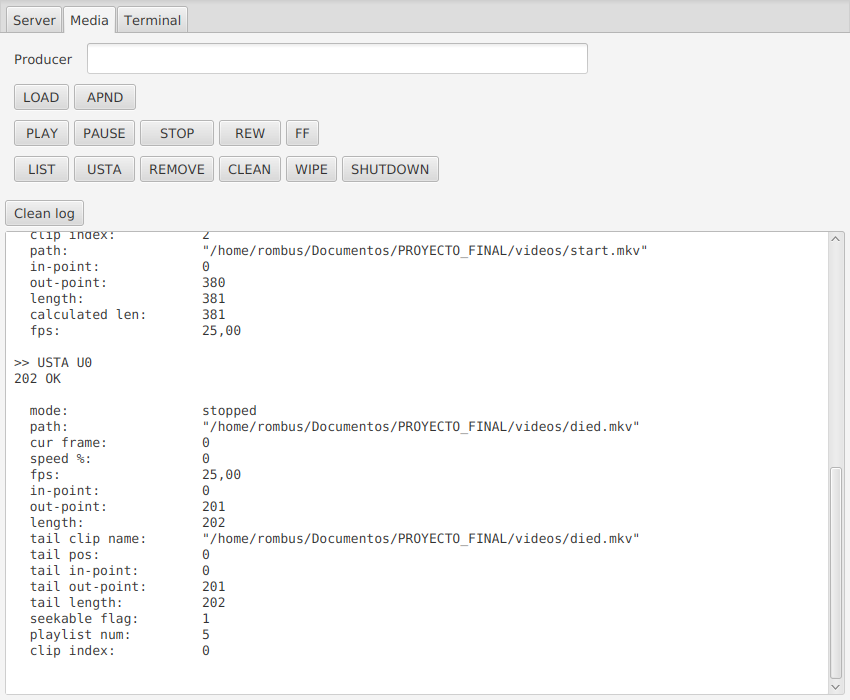
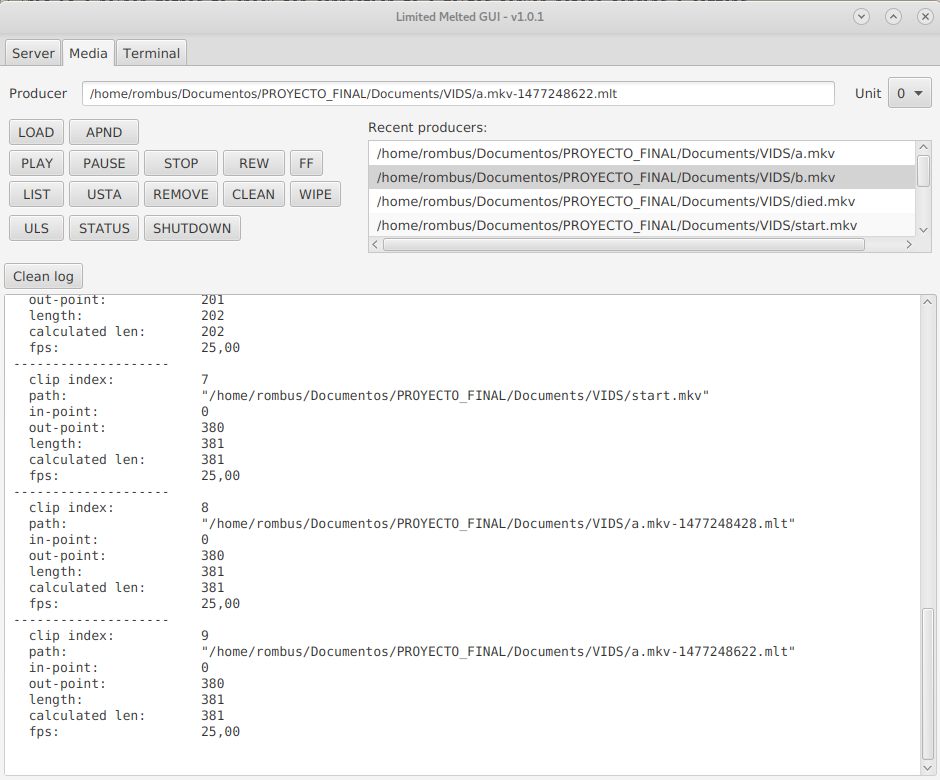
Added recent producers and commands list

diff --git a/src/com/rombus/evilbones/lmg/Main.java b/src/com/rombus/evilbones/lmg/Main.java
@@ -10,6 +10,7 @@ import javafx.application.Platform;
 import javafx.beans.value.ChangeListener;
 import javafx.beans.value.ObservableValue;
 import javafx.collections.FXCollections;
+import javafx.collections.ObservableList;
 import javafx.event.ActionEvent;
 import javafx.event.EventHandler;
 import javafx.fxml.FXML;
@@ -18,6 +19,7 @@ import javafx.fxml.Initializable;
 import javafx.scene.Scene;
 import javafx.scene.control.Button;
 import javafx.scene.control.ChoiceBox;
+import javafx.scene.control.ListView;
 import javafx.scene.control.TabPane;
 import javafx.scene.control.TextArea;
 import javafx.scene.control.TextField;
@@ -26,6 +28,7 @@ import javafx.scene.control.Tooltip;
 import javafx.scene.image.Image;
 import javafx.scene.input.DragEvent;
 import javafx.scene.input.Dragboard;
+import javafx.scene.input.MouseEvent;
 import javafx.scene.input.TransferMode;
 import javafx.scene.layout.VBox;
 import javafx.stage.Stage;
@@ -94,12 +97,18 @@ public class Main extends Application implements Initializable {
     private Button statusBtn;
     @FXML
     private Button ulsBtn;
+    @FXML
+    private ListView<String> recentProducers;
+    @FXML
+    private ListView<String> recentCommands;
 
-    private static final String VERSION = "v1.0.0";
+    private static final String VERSION = "v1.0.1";
     private String unit = "U0"; // Default unit
     private TelnetSession session;
     private I_SessionNotifier notifier;
     private Tooltip cleanBtnTooltip, removeBtnTooltip, wipeBtnTooltip;
+    private final ObservableList<String> producersList = FXCollections.observableArrayList();
+    private final ObservableList<String> commandsList = FXCollections.observableArrayList();
 
     //Start javafx app
     public static void main(String[] args) {
@@ -146,9 +155,30 @@ public class Main extends Application implements Initializable {
         removeBtn.setTooltip(removeBtnTooltip);
         wipeBtn.setTooltip(wipeBtnTooltip);
 
+        // Sincronizo la lista de Producers Recientes con la producerList
+        recentProducers.setItems(producersList);
+        recentProducers.setOnMouseClicked(new EventHandler<MouseEvent>() {
+            public void handle(MouseEvent event) {
+                if(event.getClickCount() >= 2){
+                    String cur = recentProducers.getSelectionModel().getSelectedItem();
+                    producerInput.setText(cur);
+                }
+            }
+        });
+
+        // Sincronizo la lista de Comandos Recientes con la commandsList
+        recentCommands.setItems(commandsList);
+        recentCommands.setOnMouseClicked(new EventHandler<MouseEvent>() {
+            public void handle(MouseEvent event) {
+                if(event.getClickCount() >= 2){
+                    String cur = recentCommands.getSelectionModel().getSelectedItem();
+                    cmdInput.setText(cur);
+                }
+            }
+        });
 
         // Cargo el combo selector de unidad
-        unitChoiceBox.setItems(FXCollections.observableArrayList(0,1,2,3,4,5,6,7,8,9,10,11,12,13));
+        unitChoiceBox.setItems(FXCollections.observableArrayList(0,1,2,3,4,5,6,7,8,9,10,11,12,13,14,15));
         unitChoiceBox.setValue(0);
         unitChoiceBox.getSelectionModel().selectedItemProperty().addListener(new ChangeListener<Integer>(){
             public void changed(ObservableValue<? extends Integer> observable, Integer oldValue, Integer newValue) {
@@ -187,14 +217,18 @@ public class Main extends Application implements Initializable {
         loadBtn.setOnAction(new EventHandler<ActionEvent>() {
             @Override
             public void handle(ActionEvent arg0) {
-                sendCommand("LOAD " + unit + " " + producerInput.getText().trim());
+                String clip = producerInput.getText().trim();
+                sendCommand("LOAD " + unit + " " + clip);
+                addToRecent(clip);
             }
         });
 
         apndBtn.setOnAction(new EventHandler<ActionEvent>() {
             @Override
             public void handle(ActionEvent arg0) {
-                sendCommand("APND " + unit + " " + producerInput.getText().trim());
+                String clip = producerInput.getText().trim();
+                sendCommand("APND " + unit + " " + clip);
+                addToRecent(clip);
             }
         });
 
@@ -293,7 +327,9 @@ public class Main extends Application implements Initializable {
         sendCmdBtn.setOnAction(new EventHandler<ActionEvent>() {
             @Override
             public void handle(ActionEvent arg0) {
-                sendCommand(cmdInput.getText().trim());
+                String cmd = cmdInput.getText().trim();
+                sendCommand(cmd);
+                addToRecentCmd(cmd);
             }
         });
 
@@ -341,6 +377,19 @@ public class Main extends Application implements Initializable {
             notifier.writeOutput("Not connected to melted!!!");
         }
     }
+
+    // Helper method for adding producers and commands to the recent list without duplicates
+    private void addToRecent(String path){
+        if(!producersList.contains(path)){
+            producersList.add(path);
+        }
+    }
+    private void addToRecentCmd(String cmd){
+        if(!commandsList.contains(cmd)){
+            commandsList.add(cmd);
+        }
+    }
+
 
     // Helper method for activating drag&drop on TextInputControl components.
     private void setDragDrop(final TextInputControl target, final boolean erasePreviousText) {

diff --git a/src/com/rombus/evilbones/lmg/SessionNotifier.java b/src/com/rombus/evilbones/lmg/SessionNotifier.java
@@ -9,7 +9,6 @@ import javafx.scene.control.TextArea;
  * 20/08/2016 20:51:59
  */
 public class SessionNotifier implements I_SessionNotifier {
-
     private TextArea outputText;
     private I_SessionNotifier.Commands executedCommand;
     private int msgCounter; // Helper para interpretar respuestas que tienen más de un mensaje
@@ -42,7 +41,7 @@ public class SessionNotifier implements I_SessionNotifier {
 
                             if (msgs.length == 17) {	//Valido que haya sido OK la respuesta, si no tiene todos estos campos fue fail
                                 outputText.appendText("\n");
-                                //outputText.appendText("UNIT: "+msgs[0]+"\n"); // No lo muestro pq ya se que es la U0
+                                outputText.appendText("UNIT: "+msgs[0]+"\n");
                                 outputText.appendText("  mode:\t\t\t" + msgs[1] + "\n");
                                 outputText.appendText("  path:\t\t\t" + msgs[2] + "\n");
                                 outputText.appendText("  cur frame:\t\t" + msgs[3] + "\n");
@@ -83,7 +82,7 @@ public class SessionNotifier implements I_SessionNotifier {
 
                             if (msgs.length == 7) {	//Valido que haya sido OK la respuesta, si no tiene todos estos campos fue fail
                                 outputText.appendText("--------------------\n");
-                                outputText.appendText("  clip index:\t\t" + msgs[0] + "\n"); // No lo muestro pq ya se que es la U0
+                                outputText.appendText("  clip index:\t\t" + msgs[0] + "\n");
                                 outputText.appendText("  path:\t\t\t" + msgs[1] + "\n");
                                 outputText.appendText("  in-point:\t\t" + msgs[2] + "\n");
                                 outputText.appendText("  out-point:\t\t" + msgs[3] + "\n");

diff --git a/src/com/rombus/evilbones/lmg/I_SessionNotifier.java b/src/com/rombus/evilbones/lmg/I_SessionNotifier.java
@@ -6,10 +6,9 @@ package com.rombus.evilbones.lmg;
  * 23/07/2016 19:53:38
  */
 public interface I_SessionNotifier {
-
 	// Por ahora solo quiero diferenciar el USTA y LIST de los demás, por eso están esos solos
 	public enum Commands{
-		USTA, LIST, NO_CMD
+            USTA, LIST, NO_CMD
 	}
 	
 	public void writeOutput(String msg);
